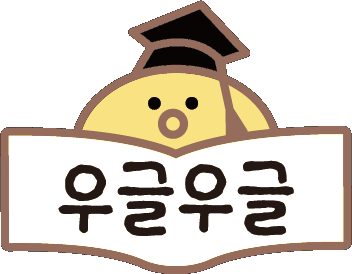
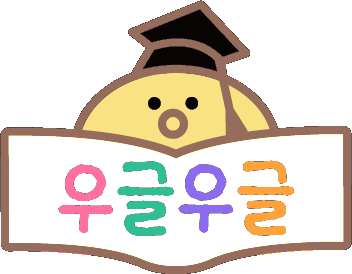
컬러 우글우글 배지, 첫 화면 하단 고해상도 문어 3마리
Claude-Session: https://claude.ai/code/session_01DyavzVXh4Agu89N6UM91vU

Changed region(s): [[0.1562, 0.5839, 0.8438, 0.8759]]

diff --git a/index.html b/index.html
@@ -559,6 +559,9 @@ body::before{background:#FFF7F5}
 .lg-title{display:flex;justify-content:center;width:100%}
 .brand img{height:44px!important;width:auto}
 .empty-logo{width:110px!important;margin:0 auto 12px!important}
+
+/* 메인 하단 문어 3마리 (고해상도 원본) */
+.trio-img{display:block;width:100%;max-width:440px;margin:18px auto 0;height:auto}
 @media (prefers-reduced-motion:reduce){*,*::before,*::after{animation:none!important;transition:none!important}}
 </style>
 </head>
@@ -680,7 +683,7 @@ function render(){
 
 function headerHTML(){
   const n=notiList().filter(x=>x.isNew).length;
-  return `<header class="top gut"><h1 class="brand"><button data-act="home" aria-label="우글우글 처음으로"><img src="woogle-badge.png" alt="우글우글"></button></h1>
+  return `<header class="top gut"><h1 class="brand"><button data-act="home" aria-label="우글우글 처음으로"><img src="woogle-badge.png?v=2" alt="우글우글"></button></h1>
   <div class="top-right"><button class="bell" data-act="noti" aria-label="알림 ${n}개">${I.bell}${n?`<span class="dot">${n>99?"99+":n}</span>`:""}</button>
   <button class="me" data-act="my" aria-label="마이페이지">${esc(st.nick)}${isAdmin()?'<span class="adm">관리자</span>':""}</button></div></header>
   ${bannerHTML()}`;
@@ -691,7 +694,7 @@ function renderLogin(){
   setTheme("region-home login-mode");
   $("#view").innerHTML=`<div class="login">
    <svg class="leaf" style="left:7%;top:9%;width:30px;transform:rotate(-25deg)" viewBox="0 0 24 24" aria-hidden="true"><path d="M12 2c5 3 8 8 6 14-2 4-6 5-6 5s-4-1-6-5C4 10 7 5 12 2z" fill="#D2602A"/><path d="M12 6v16" stroke="#7A3A16" stroke-width="1.2" fill="none"/></svg><svg class="leaf" style="right:9%;top:15%;width:24px;transform:rotate(35deg)" viewBox="0 0 24 24" aria-hidden="true"><path d="M12 2c5 3 8 8 6 14-2 4-6 5-6 5s-4-1-6-5C4 10 7 5 12 2z" fill="#E2A33A"/><path d="M12 6v16" stroke="#7A3A16" stroke-width="1.2" fill="none"/></svg><svg class="leaf" style="left:12%;top:44%;width:20px;transform:rotate(60deg)" viewBox="0 0 24 24" aria-hidden="true"><path d="M12 2c5 3 8 8 6 14-2 4-6 5-6 5s-4-1-6-5C4 10 7 5 12 2z" fill="#A94435"/><path d="M12 6v16" stroke="#7A3A16" stroke-width="1.2" fill="none"/></svg><svg class="leaf" style="right:7%;top:50%;width:28px;transform:rotate(-50deg)" viewBox="0 0 24 24" aria-hidden="true"><path d="M12 2c5 3 8 8 6 14-2 4-6 5-6 5s-4-1-6-5C4 10 7 5 12 2z" fill="#C98A1E"/><path d="M12 6v16" stroke="#7A3A16" stroke-width="1.2" fill="none"/></svg>
-   <h1 class="lg-title"><img class="lg-logo" src="woogle-badge.png" alt="우글우글"></h1>
+   <h1 class="lg-title"><img class="lg-logo" src="woogle-badge.png?v=2" alt="우글우글"></h1>
    <p class="lg-sub">우리들에게 써주신 선생님의 <b>글</b>을 연찬하고<br>쑥쑥 성장해서 경기8 체험담 대회에 <b>우글우글</b> 모이자!</p>
    <form id="nick-form" class="lg-form" novalidate>
     <label for="nick-in" class="lg-label">닉네임</label>
@@ -699,7 +702,7 @@ function renderLogin(){
     <p class="err" id="nick-err"></p>
     <button class="btn" id="nick-go" type="submit">시작하기</button>
    </form>
-   <div class="trio"><img class="o o1" src="oct-blue.png" alt=""><img class="o o2" src="oct-yellow.png" alt=""><img class="o o3" src="oct-pink.png" alt=""></div>
+   <img class="trio-img" src="trio-hi.png" alt="">
   </div>`;
 }
 
@@ -741,8 +744,8 @@ function renderMain(){
   st.justLiked=null;
 }
 function emptyHTML(total){
-  if(total)return `<div class="empty"><img class="empty-logo" src="woogle-badge.png" alt=""><strong>고른 분류의 기원문이 없어요</strong>다른 분류를 골라 보거나 전체 보기를 눌러 주세요.</div>`;
-  return `<div class="empty"><img class="empty-logo" src="woogle-badge.png" alt=""><strong>아직 ${RG[st.region].n}에 올라온 글이 없어요</strong>위의 ‘${BD[st.region].cta}’로 첫 글을 남겨 주세요.</div>`;
+  if(total)return `<div class="empty"><img class="empty-logo" src="woogle-badge.png?v=2" alt=""><strong>고른 분류의 기원문이 없어요</strong>다른 분류를 골라 보거나 전체 보기를 눌러 주세요.</div>`;
+  return `<div class="empty"><img class="empty-logo" src="woogle-badge.png?v=2" alt=""><strong>아직 ${RG[st.region].n}에 올라온 글이 없어요</strong>위의 ‘${BD[st.region].cta}’로 첫 글을 남겨 주세요.</div>`;
 }
 
 function renderMy(){
@@ -752,8 +755,8 @@ function renderMy(){
   if(st.mtab==="dash"&&!isAdmin())st.mtab="mine";
   const reg=u&&u.region?RG[u.region]:null;
   let body="";
-  if(st.mtab==="mine")body=mineP.length?`<div class="cards">${mineP.map(p=>postCard(p,{showRegion:true})).join("")}</div>`:`<div class="empty"><img class="empty-logo" src="woogle-badge.png" alt=""><strong>아직 쓴 기원문이 없어요</strong>지역 탭에서 첫 기원문을 남겨 보세요.</div>`;
-  else if(st.mtab==="liked")body=likedP.length?`<div class="cards">${likedP.map(p=>postCard(p,{showRegion:true})).join("")}</div>`:`<div class="empty"><img class="empty-logo" src="woogle-badge.png" alt=""><strong>함께 기원한 글이 아직 없어요</strong>마음이 가는 기원문에 하트를 눌러 보세요.</div>`;
+  if(st.mtab==="mine")body=mineP.length?`<div class="cards">${mineP.map(p=>postCard(p,{showRegion:true})).join("")}</div>`:`<div class="empty"><img class="empty-logo" src="woogle-badge.png?v=2" alt=""><strong>아직 쓴 기원문이 없어요</strong>지역 탭에서 첫 기원문을 남겨 보세요.</div>`;
+  else if(st.mtab==="liked")body=likedP.length?`<div class="cards">${likedP.map(p=>postCard(p,{showRegion:true})).join("")}</div>`:`<div class="empty"><img class="empty-logo" src="woogle-badge.png?v=2" alt=""><strong>함께 기원한 글이 아직 없어요</strong>마음이 가는 기원문에 하트를 눌러 보세요.</div>`;
   else body=dashHTML();
   $("#view").innerHTML=`${headerHTML()}
   <div class="gut"><button class="back" data-act="home">← 기원 이야기로</button>
